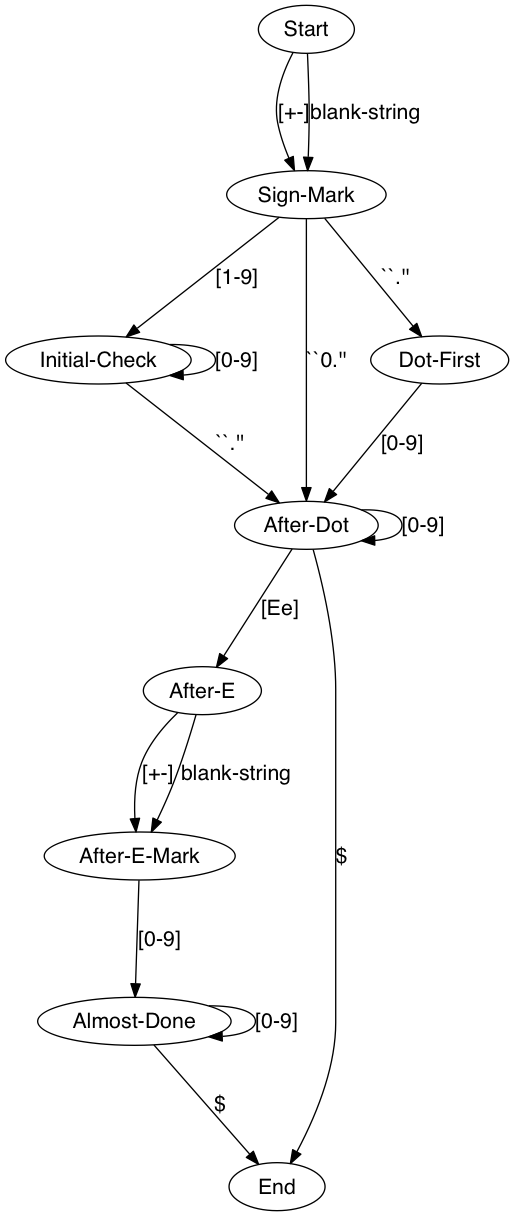
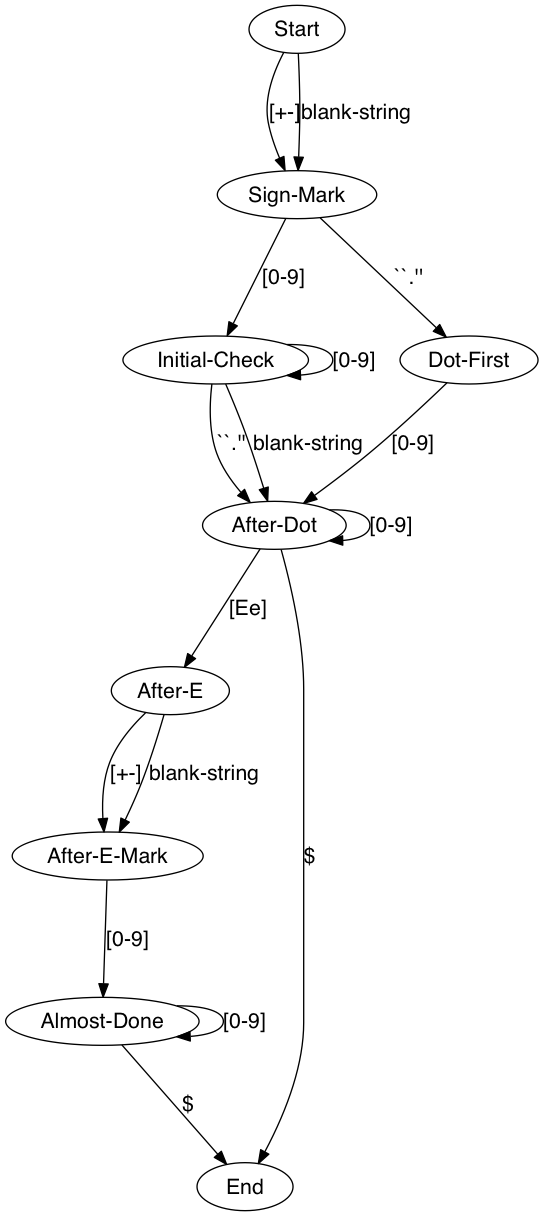
[leetcode] complete puzzel 065 about the float number

diff --git a/leetcode/065.valid_number.py b/leetcode/065.valid_number.py
@@ -17,7 +17,83 @@ class Solution:
         except:
             return False
 
+    def isNumber1(self, s):
+        s = s.strip()
+        if not s:
+            return False
+
+        stat = 0
+        i = 0
+        j = len(s)
+        c = s[i]
+        if c in ('+', '-'):
+            i += 1
+            c = s[i]
+
+        # 1123
+        if '0' <= c <= '9':
+            i += 1
+            # loop until we met a non-digital number
+            while (i < j) and ('0' <= s[i] <= '9'):
+                i += 1
+            if i >= j:
+                return True
+        elif c == '.':
+            i += 1
+            if i >= j:
+                return False
+            if not ('0' <= s[i] <= '9'):
+                return False
+            i -= 1
+        else:
+            return False
+
+        # next should be . or eE
+        if i >= j:
+            return True
+
+        c = s[i]
+        if c == '.':
+            i += 1
+            while (i < j) and ('0' <= s[i] <= '9'):
+                i += 1
+            if i >= j:
+                return True
+
+        if s[i] not in ('e', 'E'):
+            return False
+        i += 1
+        if i >= j:
+            return False
+        if s[i] in ('+', '-'):
+            i += 1
+        if i >= j:
+            return False
+        while (i < j) and ('0' <= s[i] <= '9'):
+            i += 1
+        if i >= j:
+            return True
+        return False
+
 if __name__ == '__main__':
     s = Solution()
-    v = lambda st: (st, s.isNumber(st))
-    print v('hehehe')
+    scenarios = ['0.0',
+                 '.0',
+                 '00',
+                 '01',
+                 '1.2',
+                 '2.3e0',
+                 '2.0e',
+                 '2.0e0',
+                 '4e0',
+                 '4e-0',
+                 '-4e0',
+                 '.0e45',
+                 '3.',
+                 '1 a ',
+                 '01']
+
+
+    v = lambda st: (st, s.isNumber1(st), s.isNumber(st))
+    for r in map(v, scenarios):
+        print r
